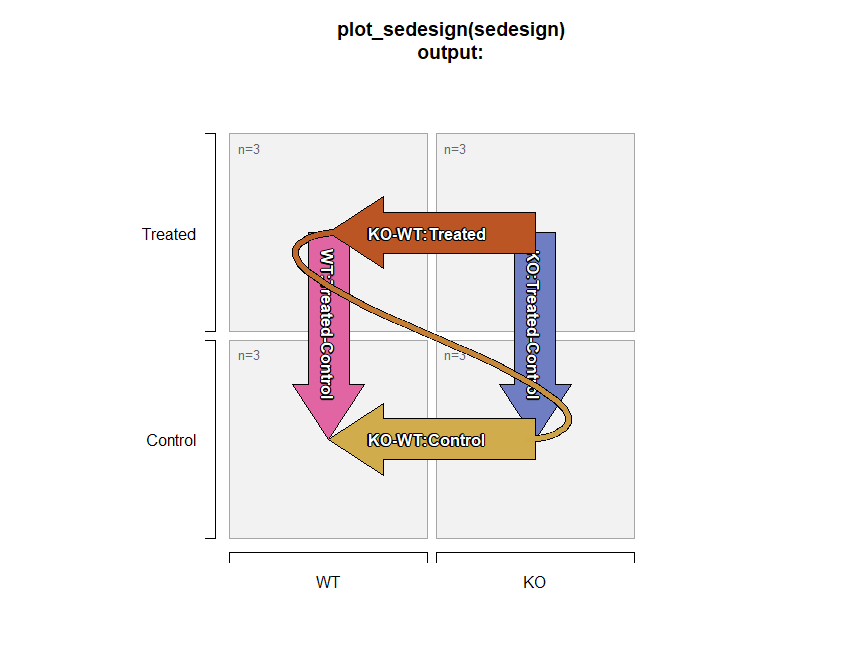
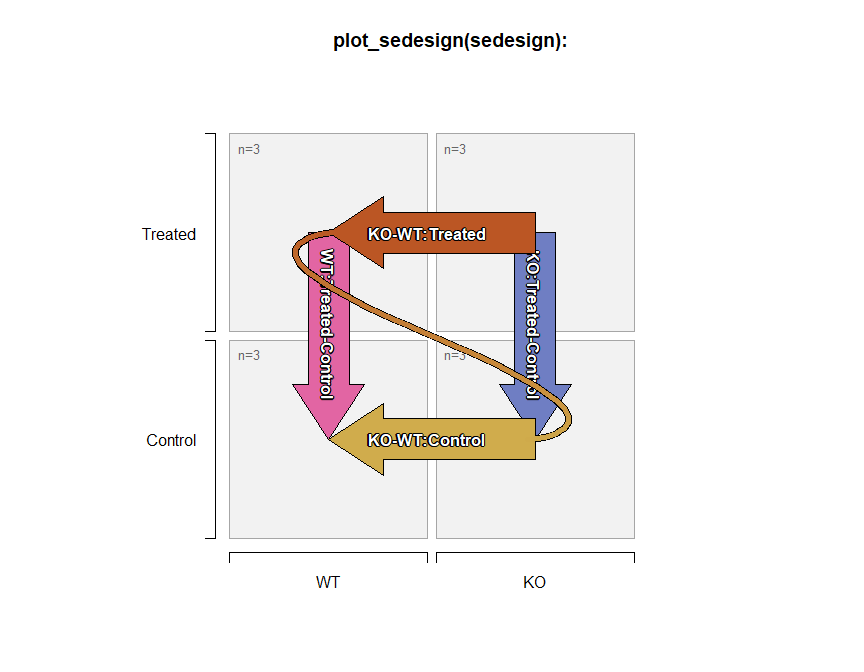
Updated README and "How to Make a Heatmap"

Changed region(s): [[0.375, 0.0312, 0.6562, 0.0938]]

diff --git a/README.md b/README.md
@@ -58,7 +58,13 @@ opinions.
 - Data are **not scaled**.
 - Row and Column annotations are “easy”.
 
+<details>
+
+<summary>
+
 ## Approach for Statistical Contrasts
+
+</summary>
 
 [The Limma User’s
 Guide](https://www.bioconductor.org/packages/devel/bioc/vignettes/limma/inst/doc/)
@@ -107,6 +113,8 @@ how estimates are reported.
 
       (B_treated - B_knockout) # incompatible one-way contrast
 
+</details>
+
 ## SEDesign: Design and Contrasts
 
 - `groups_to_sedesign()` takes by default a `data.frame` where each
@@ -124,41 +132,221 @@ provided as a `data.frame` with two columns.
 
 ``` r
 library(jamses)
-library(kableExtra)
 
 igroups <- jamba::nameVector(paste(rep(c("WT", "KO"), each=6),
    rep(c("Control", "Treated"), each=3),
    sep="_"),
    suffix="_rep");
 igroups <- factor(igroups, levels=unique(igroups));
-# jamba::kable_coloring(color_cells=FALSE,
-#    format="markdown",
-#    caption="Sample to group association",
-#    data.frame(groups=igroups))
-knitr::kable(data.frame(groups=igroups))
+
+jamba::kable_coloring(color_cells=FALSE,
+   caption="Sample to group association",
+   data.frame(groups=igroups))
 ```
 
-|                 | groups     |
-|:----------------|:-----------|
-| WT_Control_rep1 | WT_Control |
-| WT_Control_rep2 | WT_Control |
-| WT_Control_rep3 | WT_Control |
-| WT_Treated_rep1 | WT_Treated |
-| WT_Treated_rep2 | WT_Treated |
-| WT_Treated_rep3 | WT_Treated |
-| KO_Control_rep1 | KO_Control |
-| KO_Control_rep2 | KO_Control |
-| KO_Control_rep3 | KO_Control |
-| KO_Treated_rep1 | KO_Treated |
-| KO_Treated_rep2 | KO_Treated |
-| KO_Treated_rep3 | KO_Treated |
+<table class="table" style="margin-left: auto; margin-right: auto;">
+
+<caption>
+
+Sample to group association
+</caption>
+
+<thead>
+
+<tr>
+
+<th style="text-align:left;">
+
+</th>
+
+<th style="text-align:left;">
+
+groups
+</th>
+
+</tr>
+
+</thead>
+
+<tbody>
+
+<tr>
+
+<td style="text-align:left;border-left:1px solid #DDDDDD;white-space: nowrap;">
+
+WT_Control_rep1
+</td>
+
+<td style="text-align:left;border-left:1px solid #DDDDDD;white-space: nowrap;">
+
+WT_Control
+</td>
+
+</tr>
+
+<tr>
+
+<td style="text-align:left;border-left:1px solid #DDDDDD;white-space: nowrap;">
+
+WT_Control_rep2
+</td>
+
+<td style="text-align:left;border-left:1px solid #DDDDDD;white-space: nowrap;">
+
+WT_Control
+</td>
+
+</tr>
+
+<tr>
+
+<td style="text-align:left;border-left:1px solid #DDDDDD;white-space: nowrap;">
+
+WT_Control_rep3
+</td>
+
+<td style="text-align:left;border-left:1px solid #DDDDDD;white-space: nowrap;">
+
+WT_Control
+</td>
+
+</tr>
+
+<tr>
+
+<td style="text-align:left;border-left:1px solid #DDDDDD;white-space: nowrap;">
+
+WT_Treated_rep1
+</td>
+
+<td style="text-align:left;border-left:1px solid #DDDDDD;white-space: nowrap;">
+
+WT_Treated
+</td>
+
+</tr>
+
+<tr>
+
+<td style="text-align:left;border-left:1px solid #DDDDDD;white-space: nowrap;">
+
+WT_Treated_rep2
+</td>
+
+<td style="text-align:left;border-left:1px solid #DDDDDD;white-space: nowrap;">
+
+WT_Treated
+</td>
+
+</tr>
+
+<tr>
+
+<td style="text-align:left;border-left:1px solid #DDDDDD;white-space: nowrap;">
+
+WT_Treated_rep3
+</td>
+
+<td style="text-align:left;border-left:1px solid #DDDDDD;white-space: nowrap;">
+
+WT_Treated
+</td>
+
+</tr>
+
+<tr>
+
+<td style="text-align:left;border-left:1px solid #DDDDDD;white-space: nowrap;">
+
+KO_Control_rep1
+</td>
+
+<td style="text-align:left;border-left:1px solid #DDDDDD;white-space: nowrap;">
+
+KO_Control
+</td>
+
+</tr>
+
+<tr>
+
+<td style="text-align:left;border-left:1px solid #DDDDDD;white-space: nowrap;">
+
+KO_Control_rep2
+</td>
+
+<td style="text-align:left;border-left:1px solid #DDDDDD;white-space: nowrap;">
+
+KO_Control
+</td>
+
+</tr>
+
+<tr>
+
+<td style="text-align:left;border-left:1px solid #DDDDDD;white-space: nowrap;">
+
+KO_Control_rep3
+</td>
+
+<td style="text-align:left;border-left:1px solid #DDDDDD;white-space: nowrap;">
+
+KO_Control
+</td>
+
+</tr>
+
+<tr>
+
+<td style="text-align:left;border-left:1px solid #DDDDDD;white-space: nowrap;">
+
+KO_Treated_rep1
+</td>
+
+<td style="text-align:left;border-left:1px solid #DDDDDD;white-space: nowrap;">
+
+KO_Treated
+</td>
+
+</tr>
+
+<tr>
+
+<td style="text-align:left;border-left:1px solid #DDDDDD;white-space: nowrap;">
+
+KO_Treated_rep2
+</td>
+
+<td style="text-align:left;border-left:1px solid #DDDDDD;white-space: nowrap;">
+
+KO_Treated
+</td>
+
+</tr>
+
+<tr>
+
+<td style="text-align:left;border-left:1px solid #DDDDDD;white-space: nowrap;">
+
+KO_Treated_rep3
+</td>
+
+<td style="text-align:left;border-left:1px solid #DDDDDD;white-space: nowrap;">
+
+KO_Treated
+</td>
+
+</tr>
+
+</tbody>
+
+</table>
 
 The resulting design and contrasts matrices are shown below:
 
 ``` r
 sedesign <- groups_to_sedesign(igroups);
 jamba::kable_coloring(
-# knitr::kable(
    colorSub=c(`-1`="dodgerblue", `1`="firebrick"),
    caption="Design matrix output from design(sedesign).",
    data.frame(check.names=FALSE, design(sedesign)));
@@ -559,7 +747,6 @@ KO_Treated_rep3
 
 ``` r
 
-# knitr::kable(
 jamba::kable_coloring(
    colorSub=c(`-1`="dodgerblue", `1`="firebrick"),
    caption="Contrast matrix output from contrasts(sedesign).",
@@ -757,16 +944,17 @@ For convenience, SEDesign can be visualized using `plot_sedesign()`:
 ``` r
 # plot the design and contrasts
 plot_sedesign(sedesign);
-title(main="plot_sedesign(sedesign)\noutput:")
+title(main="plot_sedesign(sedesign):")
 ```
 
 ![](man/figures/README-plot_sedesign-1.png)<!-- -->
 
-- Two-way contrasts are indicated by the “squiggly curved line” which
-  connects the end of one contrast to the beginning of the next
-  contrast. This connection describes the first contrast, subtracted by
-  the second contrast.
+- One-way contrasts are shown with a wide block arrow.
 
-## Future work:
+- Two-way contrasts are shown by connecting two block arrows with a
+  “squiggly curved line”.
 
-- Enable equivalent analyses using `DESeq2`, `edgeR` methodology.
+  - It connects the end of one contrast\
+    to the beginning of the next contrast.
+  - The order indicates that the first contrast is subtracted by the
+    second contrast.

diff --git a/NEWS.md b/NEWS.md
@@ -1,3 +1,10 @@
+# jamses 0.0.79.950
+
+## Updates
+
+* Updated vignette: "How to Make a Heatmap"
+* Updated README.
+
 # jamses 0.0.79.900
 
 ## Updates
